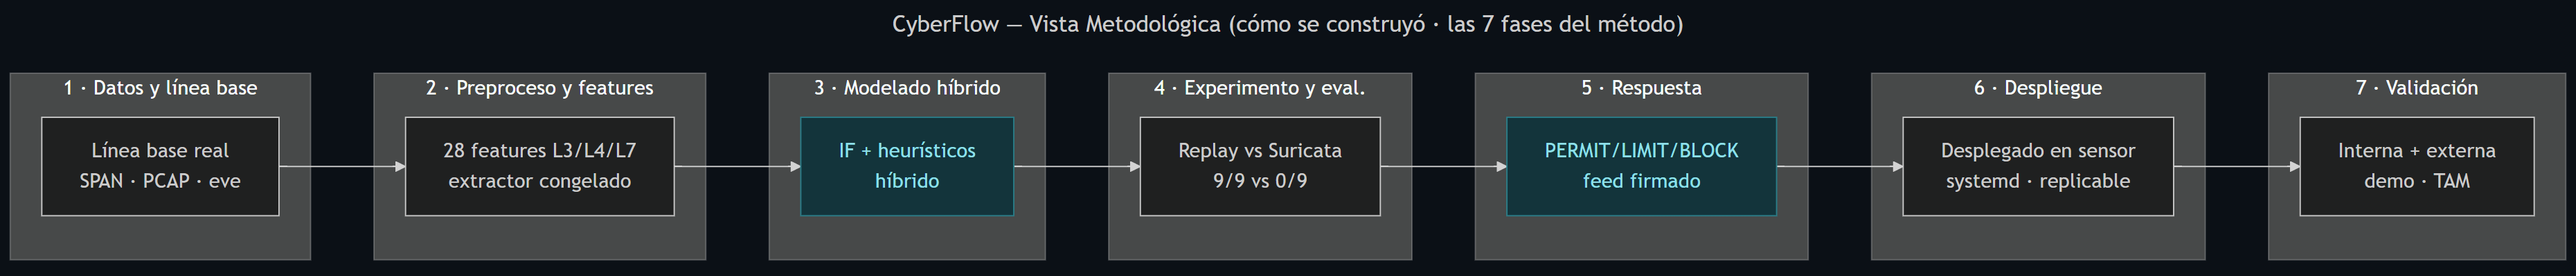
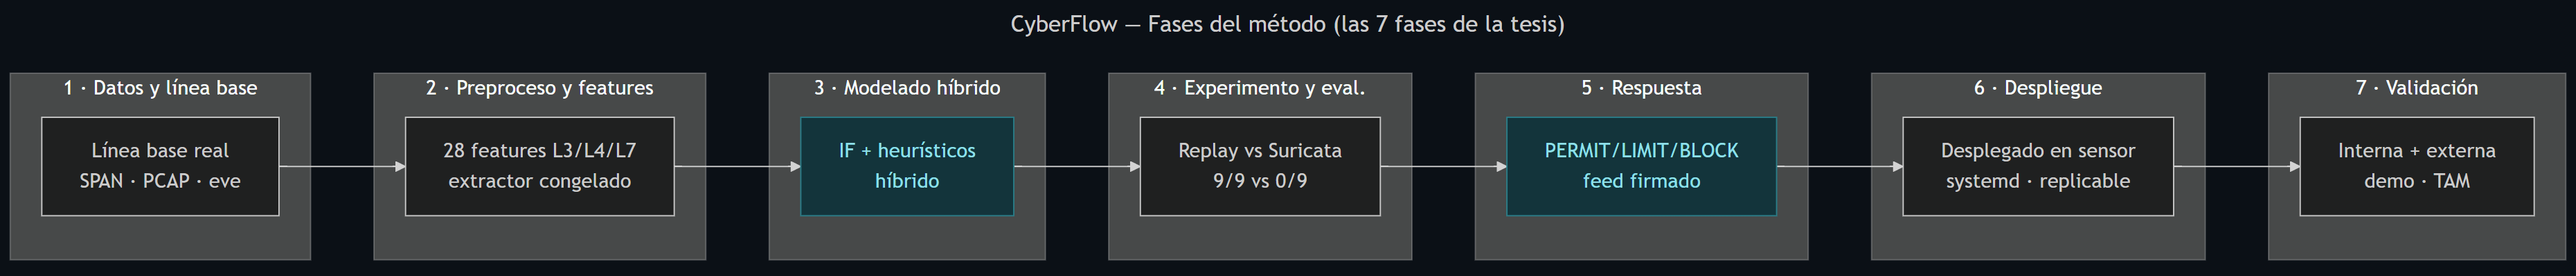
Vistas GUI: operacional con dos fuentes y dos parsers, construccion y entrenamiento, matriz de trazabilidad
Diagramas Mermaid regenerados (03-entrenamiento sustituido por 03-construccion-entrenamiento); README con la matriz generada desde vista_vivo.py; ESTADO y PENDIENTES con el despliegue del panel pendiente.

Changed region(s): [[0.343, 0.06, 0.6548, 0.12]]

diff --git a/02-metodologia/diagramas-vistas-gui/README.md b/02-metodologia/diagramas-vistas-gui/README.md
@@ -1,37 +1,49 @@
 # Vistas de CyberFlow — en Mermaid
 
-Las tres vistas de topología del panel (`dashboard.py`, `TOPO_VISTAS`), en Mermaid
-editable, **corregidas el 2026-10-09** tras la revisión de la documentación:
+Las vistas de topología del panel (`dashboard.py`, `TOPO_VISTAS`), en Mermaid editable,
+**actualizadas el 2026-10-10** para separar construcción y operación:
 
-- `01-operacional.mmd` — **Operacional**: cómo funciona en vivo (el camino del paquete).
-- `02-metodologica.mmd` — **Metodológica**: cómo se construyó (las 7 fases del método).
-- `03-entrenamiento.mmd` — **Entrenamiento**: el procedimiento datos → selección →
-  entrenamiento → evaluación → decisión.
+- `01-operacional.mmd` — **Operacional**: del espejo salen **dos fuentes** de la misma
+  copia — el PCAP crudo (tcpdump) y eve.json (Suricata) — cada una con **su parser**
+  (paquetes y eventos), que juntas arman las variables por IP y ventana; modelo +
+  heurísticos deciden PERMIT o ALERT, y la ALERT se traduce en LIMIT o BLOCK.
+- `02-metodologica.mmd` — **Fases del método**: las 7 fases de la tesis.
+- `03-construccion-entrenamiento.mmd` — **Construcción y entrenamiento**: datos →
+  limpieza → partición → candidatos → métricas → selección → congelación → despliegue →
+  acumulación → reentrenamiento → antes/después, con las cifras del informe de calibración.
 
-Cada `.mmd` tiene su `.png` renderizado al lado. Este README se genera a partir de los
-`.mmd`: si se cambia un diagrama, se regenera. Convención de color: hosts en azul,
-**artefactos** como cilindros con borde punteado, **sumidero** en rojo y acento teal para
-modelo, decisión y respuesta.
+Cada `.mmd` tiene su `.png` al lado. Este README se genera desde los `.mmd` y, la matriz,
+desde el código del producto (`scripts/engine/vista_vivo.py`): si cambia uno, se regenera.
+
+En el panel (rama `as-deployed-sensor-20261006`, modo desarrollador) la sección
+**«Datos en vivo»** muestra, sobre un tramo reciente y con la misma cadena del motor:
+**A** los eventos de eve.json y **B** las tramas del PCAP, cada registro con la variable
+que actualiza, su aporte, su ventana y el valor real de la fila de `build_rows`; por
+omisión solo los registros que aportan. La tercera pestaña es la matriz de abajo.
 
 ## Precisiones (no son decoración)
 
-- **Selección del modelo.** Los candidatos se comparan **en validación** con un criterio
-  **fijado antes** de mirar el test; el **test se reserva** para una sola evaluación final.
-  La comparación histórica de siete candidatos del laboratorio promovió el OCSVM **después**
-  de ver el test (sesgo declarado): el diagrama describe el procedimiento correcto, no aquel.
-- **Reentrenamiento mensual o por deriva = política propuesta.** No hay automatización
-  comprobada del reentrenamiento: lo automatizado es la **acumulación** de la línea base
-  (`cyberflow-acumular.timer`). El ciclo se ejecuta a mano, en seco, con el runbook, y solo
-  se despliega si mejora o iguala la cobertura sin empeorar el FPR.
+- **Dos fuentes, no «eve.json por la NIC».** Suricata deriva eve.json de las mismas tramas
+  que tcpdump guarda; el motor las lee por separado y las une por IP y ventana.
+- **Selección del modelo.** En el laboratorio se compararon 7 candidatos y el OCSVM se
+  promovió **después** de ver el test (sesgo declarado). En esta red se reentrenó un solo
+  candidato, el IF, porque el OCSVM no transfirió (92,4 % de FPR con el umbral de otra red);
+  el umbral del IF se fijó en validación (α = 0,05) antes de mirar el test (4,45 %).
+- **«92,4 % → 4,45 %» no es un reentrenamiento del mismo modelo**: es cambio de modelo y
+  de umbral. La comparación antes/después de un reentrenamiento con datos reservados
+  nuevos sigue pendiente (bloque B3).
+- **Reentrenamiento mensual o por deriva = política propuesta.** Lo automatizado es la
+  **acumulación** de la línea base; el ciclo se ejecuta a mano, en seco, y solo se promueve
+  si el FPR no empeora y la detección no baja.
 - **Variables.** El extractor v3 emite 31; el modelo consume **28** (contrato v2).
 
 ---
 
-## 1 · Operacional (cómo funciona en vivo)
+## 1 · Operacional (dos fuentes, dos parsers)
 
 ```mermaid
 ---
-title: CyberFlow — Vista Operacional (cómo funciona en vivo · el camino del paquete)
+title: CyberFlow — Vista Operacional (dos fuentes, dos parsers, una decisión por IP y ventana)
 ---
 flowchart LR
   subgraph G0["Hosts · VLAN 20/30"]
@@ -41,35 +53,36 @@ flowchart LR
     servidor(["Servidor<br/>10.10.30.10 · objetivo HTTP/HTTPS"])
     gateway(["pfSense / gateway<br/>10.10.20.1 · enruta entre VLAN"])
   end
-  subgraph G1["1 · Adquisición"]
+  subgraph G1["1 · Adquisición (una copia, dos fuentes)"]
     direction TB
     red["Red de la entidad<br/>VLAN 10-100"]
     span["Espejo SPAN<br/>CORE-STACK"]
     nic["Interfaz en escucha<br/>ens37 · SIN IP"]
-    captura["tcpdump<br/>SERVICIO"]
-    pcap[("anillo live-*.pcap<br/>ARTEFACTO")]
-    suricata["Suricata<br/>SERVICIO"]
-    eve[("eve.json<br/>ARTEFACTO")]
+    captura["tcpdump<br/>captura cruda"]
+    pcap[("anillo live-*.pcap<br/>FUENTE CRUDA")]
+    suricata["Suricata<br/>parseo de protocolos"]
+    eve[("eve.json<br/>FUENTE ESTRUCTURADA")]
   end
   subgraph G2["2 · Análisis"]
     direction TB
-    motor["Atribución de flujo<br/>SERVICIO"]
-    variables["Variables / 10 s<br/>L2·L3·L4·L7"]
-    descartes["Fuera del cálculo<br/>SUMIDERO"]
+    motor["Parser de paquetes<br/>trama → flujo · L2·L3·L4"]
+    parser_eve["Parser de eventos<br/>JSON → L7 · http·dns·tls"]
+    variables["Variables / 10 s<br/>por IP y ventana 10/30/60 s"]
+    descartes["Fuera del cálculo<br/>control · espejo · excluidas"]
     reentrenamiento["Reentrenamiento<br/>POLÍTICA PROPUESTA · manual"]
-    modelo["Modelo recalibrado<br/>IF · CALIBRADO"]
-    heuristicos["Heurísticos<br/>DETERMINISTAS"]
+    modelo["Modelo recalibrado<br/>IF · umbral −0,568892"]
+    heuristicos["Heurísticos<br/>4 reglas · 2026-10-06.2"]
   end
   subgraph G3["3 · Decisión y respuesta"]
     direction TB
-    control["Decisión<br/>PERMIT / LIMIT / BLOCK"]
+    control["Decisión<br/>PERMIT · ALERT → LIMIT/BLOCK"]
     feed[("Feed firmado<br/>ed25519")]
     agente["Agente en host<br/>nftables LIMIT/BLOCK"]
   end
   subgraph G4["4 · Observabilidad"]
     direction TB
     registro[("motor_decision.log<br/>ARTEFACTO")]
-    panel["Este panel<br/>SOLO LECTURA"]
+    panel["Panel · Datos en vivo<br/>SOLO LECTURA"]
     wazuh["Wazuh (SIEM)<br/>CONCENTRADOR"]
   end
 
@@ -79,23 +92,26 @@ flowchart LR
   gateway -->|enruta| red
   red -->|al troncal| span
   span -->|copia| nic
-  nic -->|paquetes| captura
-  nic -->|paquetes| suricata
+  nic -->|tramas| captura
+  nic -->|tramas| suricata
   captura --> pcap
   suricata --> eve
-  pcap -->|"L3·L4"| motor
-  eve -->|"HTTP·DNS·TLS"| motor
-  motor -->|atribuye por IP| variables
+  pcap -->|tramas| motor
+  eve -->|eventos| parser_eve
+  motor -->|"L2·L3·L4 por IP"| variables
+  parser_eve -->|"L7 por IP"| variables
   motor -. descarta .-> descartes
   variables -->|"28 al modelo (31 extraídas)"| modelo
-  variables -->|mismas variables| heuristicos
+  variables -->|"variables + conteos"| heuristicos
   reentrenamiento -->|entrena y congela| modelo
-  modelo -->|"score &lt; umbral"| control
-  heuristicos -->|confirmado| control
+  modelo -->|"score &lt; umbral → ALERT"| control
+  heuristicos -->|"regla cumplida → ALERT"| control
   control -->|veredicto firmado| feed
   feed -->|pull + verifica| agente
   control -->|cada decisión| registro
   registro -->|lee| panel
+  pcap -. "tramo reciente" .-> panel
+  eve -. "tramo reciente" .-> panel
   registro -->|syslog| wazuh
 
   classDef host fill:#1b2b3a,stroke:#3a5169,color:#dce8f5;
@@ -105,16 +121,54 @@ flowchart LR
   class atacante,clientes,servidor,gateway host;
   class pcap,eve,registro,feed arte;
   class descartes sink;
-  class modelo,control accent;
+  class motor,parser_eve,modelo,control accent;
 ```
 
 ---
 
-## 2 · Metodológica (cómo se construyó · 7 fases)
+## 2 · Construcción y entrenamiento
 
 ```mermaid
 ---
-title: CyberFlow — Vista Metodológica (cómo se construyó · las 7 fases del método)
+title: CyberFlow — Construcción y entrenamiento (de los datos al modelo congelado y su ciclo de vida)
+---
+flowchart LR
+  subgraph C1["1 · Construcción (una vez, en seco)"]
+    direction LR
+    c_datos["Datos de la red<br/>SPAN → PCAP + eve.json<br/>335 202 ventanas normales"]
+    c_limpia["Limpieza y alcance<br/>sin plano de control, sin copias<br/>del espejo · sin imputación"]
+    c_part["Partición sin fuga temporal<br/>204 148 / 65 633 / 65 421<br/>bloques horarios + guarda 60 s"]
+    c_cand["Candidatos<br/>7 en laboratorio (IF×4, LOF,<br/>OCSVM, EE) · IF en esta red"]
+    c_metr["Comparar métricas<br/>FPR val/test · detección Kali<br/>F1 · MCC · AUC (laboratorio)"]
+    c_sel["Selección<br/>IF recalibrado: transfiere<br/>a esta red (OCSVM no)"]
+    c_datos --> c_limpia --> c_part --> c_cand --> c_metr --> c_sel
+  end
+  subgraph C2["2 · Operación y ciclo"]
+    direction LR
+    c_cong["Congelar modelo + umbral<br/>α = 0,05 en validación<br/>score_samples < −0,568892"]
+    c_desp["Despliegue<br/>promover + verificar<br/>hash · orden · equivalencia"]
+    c_acum["Acumulación<br/>temporizador · filas v3<br/>(única parte automática)"]
+    c_reent["Reentrenar / recalibrar<br/>mensual o por deriva<br/>POLÍTICA PROPUESTA"]
+    c_antes["Antes vs después<br/>mismos datos y métricas<br/>ref.: FPR 92,4 % → 4,45 %"]
+    c_cong --> c_desp --> c_acum --> c_reent --> c_antes
+  end
+  c_sel -->|"umbral desde validación"| c_cong
+  c_reent -. "repite 3→6 con datos nuevos" .-> c_part
+  c_antes -. "FPR ≤ y detección ≥ → se congela el nuevo; si no, se queda el vigente" .-> c_cong
+
+  classDef accent fill:#13343b,stroke:#2a7f8a,color:#8fe0ea;
+  classDef prop fill:#2b2410,stroke:#7a6420,color:#f0d890;
+  class c_part,c_sel,c_cong accent;
+  class c_reent prop;
+```
+
+---
+
+## 3 · Fases del método (7 fases)
+
+```mermaid
+---
+title: CyberFlow — Fases del método (las 7 fases de la tesis)
 ---
 flowchart LR
   subgraph F1["1 · Datos y línea base"]
@@ -147,24 +201,43 @@ flowchart LR
 
 ---
 
-## 3 · Entrenamiento (procedimiento)
+## 4 · Matriz de trazabilidad (fuente → registro → parser → variable → ventana → uso)
 
-```mermaid
----
-title: CyberFlow — Vista Entrenamiento (procedimiento · el reentrenamiento periódico es política propuesta)
----
-flowchart LR
-  e_datos["Datos acumulados<br/>multilayer-v3.csv"]
-  e_part["Partición 60/20/20<br/>sin fuga temporal"]
-  e_comp["Comparar candidatos<br/>en validación · criterio prefijado"]
-  e_train["Entrenar + congelar umbral<br/>α=0,05 sobre validación"]
-  e_eval["Evaluar una sola vez<br/>test reservado + Kali"]
-  e_antes["Antes vs después<br/>mismas métricas, mismos datos"]
-  e_dec["Desplegar o conservar<br/>cobertura ≥ y FPR ≤ actual"]
+Generada de `configs/features/multilayer-v{2,3}.json`, de `build_rows` y de `heuristicos.py`. «modelo» = entra al Isolation Forest; «conteo» = solo lo leen los heurísticos; «capa 2» = se acumula y no se puntúa.
 
-  e_datos --> e_part --> e_comp --> e_train --> e_eval --> e_antes --> e_dec
-  e_dec -. "reentrenar: mensual / por deriva · política propuesta, no automatizada" .-> e_datos
-
-  classDef accent fill:#13343b,stroke:#2a7f8a,color:#8fe0ea;
-  class e_comp,e_train,e_dec accent;
-```
+| Fuente | Registro que la alimenta | Parser | Variable | Capa | Ventana | Uso | Heurísticos |
+|---|---|---|---|---|---:|---|---|
+| PCAP (SPAN) | toda trama IPv4 atribuida a la entidad | `parse_con_contexto → attribute_packets` | `packet_rate_10s` | L3 | 10 s | modelo | — |
+| PCAP (SPAN) | toda trama IPv4 atribuida (bytes IP) | `parse_con_contexto → attribute_packets` | `byte_rate_10s` | L3 | 10 s | modelo | — |
+| PCAP (SPAN) | toda trama IPv4 atribuida (longitud IP) | `parse_con_contexto → attribute_packets` | `mean_ip_len_10s` | L3 | 10 s | modelo | — |
+| PCAP (SPAN) | trama de 500 a 1500 bytes IP | `parse_con_contexto → attribute_packets` | `large_ip_ratio_10s` | L3 | 10 s | modelo | — |
+| PCAP (SPAN) | primer paquete de un flujo (destino) | `parse_con_contexto → attribute_packets` | `unique_dst_ip_ratio_30s` | L3 | 30 s | modelo | — |
+| PCAP (SPAN) | paquete ICMP | `parse_con_contexto → attribute_packets` | `icmp_ratio_10s` | L3 | 10 s | modelo | — |
+| PCAP (SPAN) | primer paquete de un flujo | `parse_con_contexto → attribute_packets` | `flow_attempt_rate_10s` | L4 | 10 s | modelo | — |
+| PCAP (SPAN) | TCP SYN sin ACK enviado por la entidad | `parse_con_contexto → attribute_packets` | `syn_rate_10s` | L4 | 10 s | modelo | — |
+| PCAP (SPAN) | SYN enviado (denominador) y SYN-ACK recibido (numerador) | `parse_con_contexto → attribute_packets` | `syn_completion_ratio_10s` | L4 | 10 s | modelo | `port_scan` |
+| PCAP (SPAN) | segmento TCP con RST, sobre todos los TCP | `parse_con_contexto → attribute_packets` | `rst_ratio_10s` | L4 | 10 s | modelo | — |
+| PCAP (SPAN) | primer paquete de un flujo con puerto destino | `parse_con_contexto → attribute_packets` | `unique_dst_port_ratio_30s` | L4 | 30 s | modelo | `port_scan` |
+| eve.json | evento http con estado >= 400 | `load_app_observations` | `http_error_ratio_60s` | L7 | 60 s | modelo | — |
+| eve.json | respuesta dns NXDOMAIN, sobre las consultas | `load_app_observations` | `dns_nxdomain_ratio_60s` | L7 | 60 s | modelo | `dns_entropy` |
+| eve.json | evento tls (sesiones distintas por flow_id) | `load_app_observations` | `tls_session_rate_60s` | L7 | 60 s | modelo | — |
+| PCAP (SPAN) | toda trama IPv4 atribuida (TTL) | `parse_con_contexto → attribute_packets` | `ttl_mean_10s` | L3 | 10 s | modelo | — |
+| PCAP (SPAN) | paquete IP fragmentado | `parse_con_contexto → attribute_packets` | `fragment_ratio_10s` | L3 | 10 s | modelo | — |
+| PCAP (SPAN) | toda trama IPv4 atribuida (protocolo) | `parse_con_contexto → attribute_packets` | `protocol_diversity_30s` | L3 | 30 s | modelo | — |
+| PCAP (SPAN) | segmento TCP con datos cuya secuencia ya se vio | `parse_con_contexto → attribute_packets` | `tcp_retransmission_ratio_10s` | L4 | 10 s | modelo | — |
+| PCAP (SPAN) | cualquier paquete de un flujo (duración acumulada) | `parse_con_contexto → attribute_packets` | `flow_duration_mean_30s` | L4 | 30 s | modelo | — |
+| PCAP (SPAN) | trama atribuida, según sentido (enviada o recibida) | `parse_con_contexto → attribute_packets` | `tx_rx_byte_ratio_30s` | L4 | 30 s | modelo | — |
+| eve.json | evento http | `load_app_observations` | `http_request_rate_60s` | L7 | 60 s | modelo | — |
+| eve.json | evento http (método) | `load_app_observations` | `http_method_entropy_60s` | L7 | 60 s | modelo | — |
+| eve.json | evento http con estado 401 o 403 | `load_app_observations` | `http_auth_failure_ratio_60s` | L7 | 60 s | modelo | `brute_force`, `http_abuse` |
+| eve.json | evento dns de consulta | `load_app_observations` | `dns_query_rate_60s` | L7 | 60 s | modelo | — |
+| eve.json | evento dns de consulta (nombre) | `load_app_observations` | `unique_dns_name_ratio_60s` | L7 | 60 s | modelo | `dns_entropy` |
+| eve.json | evento tls sin versión negociada (en la práctica no ocurre) | `load_app_observations` | `tls_handshake_failure_ratio_60s` | L7 | 60 s | modelo | — |
+| eve.json | evento tls con versión (proporción de TLS 1.3) | `load_app_observations` | `tls_version_ratio_60s` | L7 | 60 s | modelo | — |
+| eve.json | evento http con estado 5xx | `load_app_observations` | `http_status_5xx_ratio_60s` | L7 | 60 s | modelo | — |
+| PCAP (SPAN) | trama ARP de petición | `l2_en_alcance` | `arp_request_rate_10s` | L2 | 10 s | solo extractor v3 (capa 2, fuera del scoring) | — |
+| PCAP (SPAN) | trama de la entidad (MAC de origen) | `l2_en_alcance` | `unique_src_mac_30s` | L2 | 30 s | solo extractor v3 (capa 2, fuera del scoring) | — |
+| PCAP (SPAN) | trama de la entidad (cambio de MAC para su IP) | `l2_en_alcance` | `mac_ip_binding_changes_60s` | L2 | 60 s | solo extractor v3 (capa 2, fuera del scoring) | — |
+| PCAP (SPAN) | primer paquete de un flujo | `parse_con_contexto → attribute_packets` | `flow_attempt_count_30s` | L4 | 30 s | conteo (no va al modelo) | `port_scan` |
+| eve.json | evento http | `load_app_observations` | `http_request_count_60s` | L7 | 60 s | conteo (no va al modelo) | `brute_force`, `http_abuse` |
+| eve.json | evento dns de consulta | `load_app_observations` | `dns_query_count_60s` | L7 | 60 s | conteo (no va al modelo) | `dns_entropy` |

diff --git a/ESTADO.md b/ESTADO.md
@@ -43,6 +43,7 @@ falta demostrar un **BLOCK automático** originado por la detección.
 | Panel con TLS + login + roles | ✅ | ✅ | ✅ (30-sep) | ⏳ QA por rol con capturas | — |
 | Panel muestra el detector del motor | ✅ generador, panel y resolución desde la configuración | ✅ `main@5573d43` y rama del sensor `1fc8772` | ✅ (10-oct, 04:48 UTC): sin tocar la unidad, el panel toma `if_recalibrado_2026_09` de `configs/cyberflow.local.toml` | ✅ journal: `panel: detector if_recalibrado_2026_09`; umbral mostrado −0,568892; FPR y detección «—» (el manifiesto no las trae) | antes mostraba cifras del OCSVM |
 | Panel: 3 vistas, visor de código, «Pruebas previas», detector real, vista Entrenamiento corregida | ✅ | ✅ rama del sensor; la tarjeta Detector también en `main` | ✅ (10-oct, 04:48 UTC): `dashboard.py` de `1fc8772`, SHA-256 `03e3ef48…` **idéntico al commit**; responde por HTTPS (401 sin login) desde el bastión | ⏳ QA autenticada por rol | respaldo previo `dashboard.py.bak-20261010-044838` |
+| Panel: vista operacional con dos fuentes y dos parsers, «Construcción y entrenamiento» (11 pasos) y «Datos en vivo» (eventos eve.json, tramas PCAP, matriz de trazabilidad) | ✅ `vista_vivo.py` + 10 pruebas (PCAP y eve sintéticos; valor = fila de `build_rows`) | ✅ rama del sensor `a5890df` | ❌ pendiente: bastión inalcanzable el 10-oct | ⏳ | solo admin (`/api/vivo`, `/api/trazabilidad` en `RUTAS_ADMIN`); diagramas en `02-metodologia/diagramas-vistas-gui/` |
 | Documentación pública alineada al despliegue | ✅ | ✅ `main@01b6f3f` | — | — | CI de `main` |
 | Suite de pruebas en Linux | ✅ | ✅ | — | ✅ 328 pruebas OK en CPython 3.14.4 (WSL) y CI de GitHub | 9-oct |
 | Validación interna con el profesor | — | — | — | ❌ pendiente | bloque B6 |
